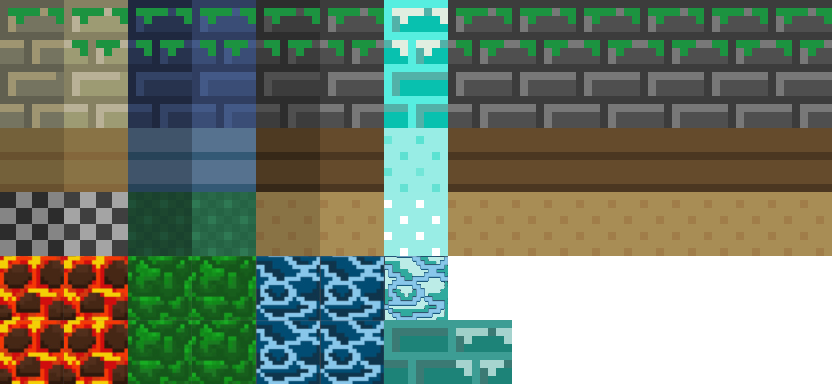
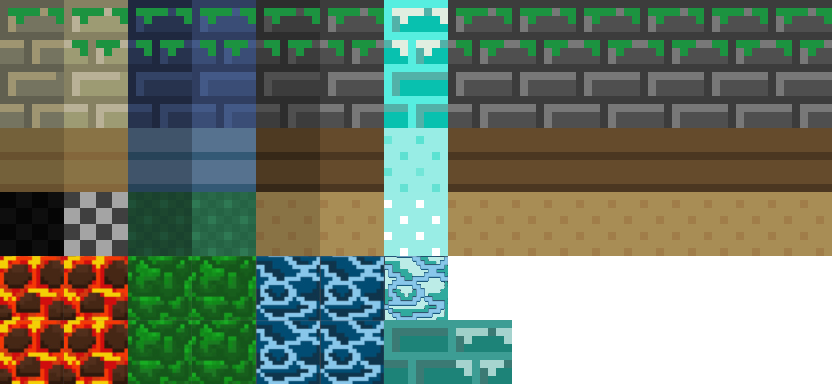
intento de abismo

Changed region(s): [[0.0, 0.5, 0.0938, 0.6875]]

diff --git a/Util.py b/Util.py
@@ -101,6 +101,7 @@ class Util:
         NPCreapers = pygame.sprite.Group()
         bobs = pygame.sprite.Group()
         llaves = pygame.sprite.Group()
+        abismos = pygame.sprite.Group()
         habitacionBoss=False
         filas = 0
         for col in range (10):
@@ -249,7 +250,12 @@ class Util:
                 if(c[0] == 25):
                     bloque = Bloque(matrizMapa[7][5], [filas*64,col*64])
                     bloques.add(bloque)
+
+                if (c[0] == 5000):
+                    bloque = Bloque(matrizMapa[0][3], [filas*64,col*64])
+                    abismos.add(bloque)
+
                 filas += 1
             filas = 0
 
-        return bloques, piso, magma, agua, pasto, puertas, enemigos, NPCreapers, bosses, llaves, bobs,habitacionBoss
+        return bloques, piso, magma, agua, pasto, puertas, enemigos, NPCreapers, bosses, llaves, bobs,habitacionBoss, abismos

diff --git a/Genesis.py b/Genesis.py
@@ -210,22 +210,22 @@ class Genesis:
 			[
 				[#azul
 					([1,2],[0.8, 0.2]),
-					(([3,4,1,2], [17,18,1,2]), [0.3,0.2,0.3,0.2]),
+					(([3,4,1,2,5000], [17,18,1,2,5]), [0.3,0.2,0.3,0.1,0.1]),
 					([5,6], [0.8, 0.2])
 				],
 				[#oscuro
 					([7,8],[0.8, 0.2]),
-					(([9,10,7,8], [5,6,7,8]), [0.3,0.2,0.3,0.2]),
+					(([9,10,7,8, 5000], [5,6,7,8,11]), [0.3,0.2,0.3,0.1,0.1]),
 					([11,12], [0.8, 0.2])
 				],
 				[#arenizca
 					([13,14],[0.8, 0.2]),
-					(([15,16,13,14], [11,12,13,14]), [0.3,0.2,0.3,0.2]),
+					(([15,16,13,14,5000], [11,12,13,14,17]), [0.3,0.2,0.3,0.1,0.1]),
 					([17,18], [0.8, 0.2])
 				],
 				[#nieve
 					([19,20],[0.8, 0.2]),
-					(([21,19,20], [24,25,20]), [0.5,0.3,0.2]),
+					(([21,19,20, 5000], [24,25,20,22]), [0.5,0.3,0.1,0.1]),
 					([22,23], [0.8, 0.2])
 				]
 			]

diff --git a/niveles/lvl1.py b/niveles/lvl1.py
@@ -72,6 +72,7 @@ class lvl1:
 		llaves = pygame.sprite.Group()
 		bobs = pygame.sprite.Group()
 		minos = pygame.sprite.Group()
+		abismos = pygame.sprite.Group()
 
 		mapita = Util.mapear(self.habitacionActual, self.mapa, imagenesEnemigo, imagenesNPCreaper, imagenesBoss)
 
@@ -87,6 +88,7 @@ class lvl1:
 		llaves = mapita[9]
 		bobs = mapita[10]
 		habitacionBoss=mapita[10]
+		abismos = mapita[11]
 
 		#jugador
 		j=Jugador(Util.CENTRO,imagenesJugador, self.habitacionActual)
@@ -117,6 +119,7 @@ class lvl1:
 			agua = mapita[3]
 			pasto = mapita[4]
 			puertas = mapita[5]
+			abismos = mapita[11]
 
 
 			if j.vida>100:
